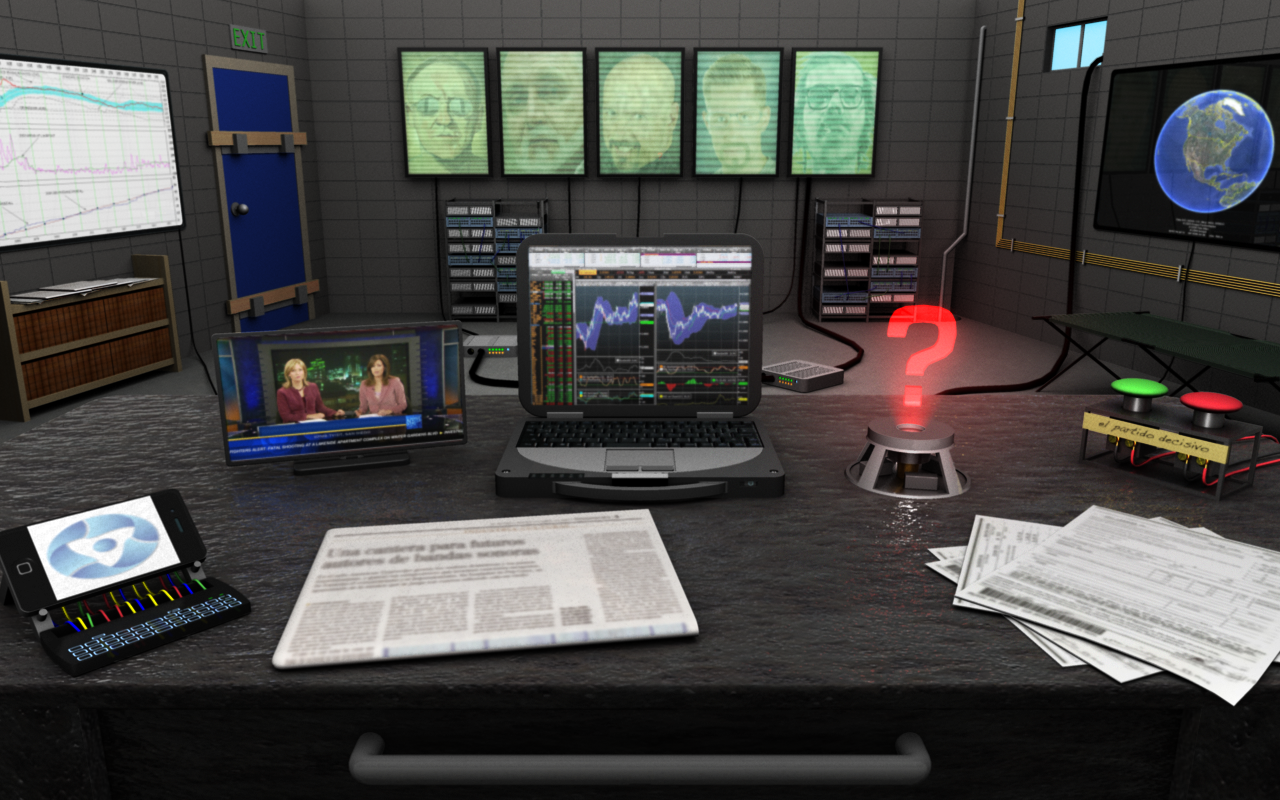
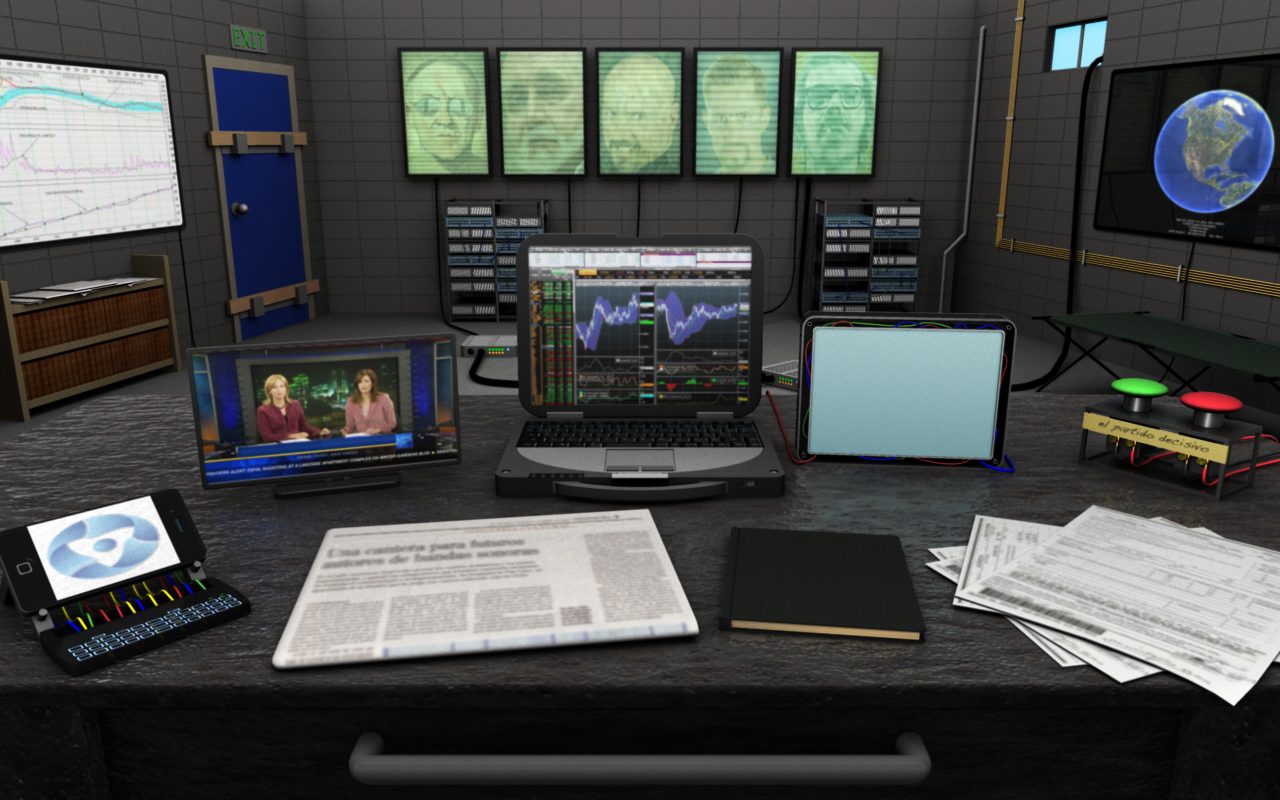
Basic code / partial assets for rolodex.

Changed region(s): [[0.5625, 0.3125, 0.8125, 0.8125], [0.125, 0.4062, 0.375, 0.6562]]

diff --git a/scripts/main.js b/scripts/main.js
@@ -81,6 +81,7 @@ var dmz =
         , Help: false
         , Bookcase: false
         , Resource: false
+        , Rolodex: false
         }
    , LoggedIn = false
    , groupAdvisors = {}
@@ -226,6 +227,7 @@ updateGraphicsForGroup = function (groupHandle) {
          case "Help": attr = dmz.stance.HelpImageHandle; break;
          case "Bookcase": attr = dmz.stance.BookcaseImageHandle; break;
          case "Resource": attr = dmz.stance.ResourceImageHandle; break;
+         case "Rolodex": attr = dmz.stance.RolodexImageHandle; break;
          default: self.log.warn ("Key ("+key+") has no associated handle."); break;
          }
          if (attr) {

diff --git a/scripts/stanceConst.js b/scripts/stanceConst.js
@@ -129,6 +129,7 @@ var dmz =
         , CalendarImageHandle: dmz.defs.createNamedHandle("calendar_image")
         , HelpImageHandle: dmz.defs.createNamedHandle("help_image")
         , BookcaseImageHandle: dmz.defs.createNamedHandle("bookcase_image")
+        , RolodexImageHandle: dmz.defs.createNamedHandle("rolodex_image")
         }
 
    , Functions =

diff --git a/installer/changelog.html b/installer/changelog.html
@@ -43,7 +43,7 @@
 
 <h3>New Features</h3>
 <ul>
-   <li></li>
+   <li>Local archives now expire after 4 days. If users do not log in for that amount of time or longer, the local archive will not be loaded, and the data will be repopulated as a whole from the server.</li>
 </ul>
 
 <h3>Changes</h3>
